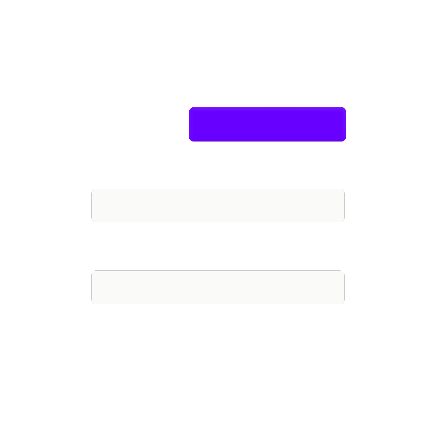
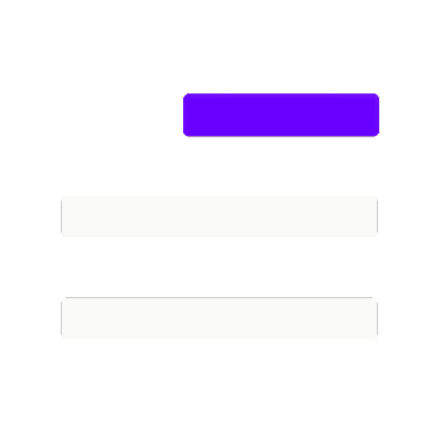
fixed ios autoplay bug, misc changes

Changed region(s): [[0.4165, 0.2156, 0.8924, 0.3389], [0.7735, 0.6777, 0.8032, 0.7085], [0.2082, 0.6777, 0.238, 0.7085]]

diff --git a/css/custom.css b/css/custom.css
@@ -129,17 +129,21 @@ transition: transform 0.3s ease;
  transform: scale(4);
 }
 
-
+.creation {
+width: 100%;
+height: auto;
+}
 
 .white_phyxl {
 width: 100%;
 height: auto;
-transition: transform 0.3s ease;
 }
 
-.white_phyxl:hover {
- transform: scale(4);
- }
+.loop {
+width: 100%;
+height: auto;
+transform: scale(1.0092);
+}
 
 .revenue {
 width: 100%;
@@ -161,13 +165,8 @@ right: 0;
 z-index: 1000;
 display: flex;
 justify-content: space-between;
-align-items: center;
-width: 100%;
-}
-
-.footer-left {
-display: flex;
-margin-left: 25px;
+margin-left: 5px;
+margin-bottom: 10px;
 }
 
 .social-icon {
@@ -213,8 +212,8 @@ width: 30px;
 height: 43px;
 z-index: 1;
 position: relative;
-top: 7px;
 padding-right: 5px;
+margin-bottom: -1.5px;
 }
 
 .bioniq:hover .bioniq{
@@ -227,7 +226,7 @@ height: 75px;
 cursor: pointer;
 position: relative; /* Ensure proper stacking context */
 z-index: 1001; /* Ensure the icon is above the menu */
-margin-right: 10px;
+margin-right: 20px;
 }
 
 .menu {
@@ -336,7 +335,10 @@ overflow: hidden;
 
 
 
-
+.footer-left {
+display: flex;
+margin-left: 20px;
+}
 
 
 
@@ -391,7 +393,7 @@ flex-direction: column;
 align-items: center;
 max-width: 700px;
 margin-left: 0px;
-margin-top: 40px;
+margin-top: 100px;
 }
 
 .body-left {
@@ -407,15 +409,15 @@ height: 200px;
 
 .body-right {
 margin-left: 0px;
-width: 50vmin;
-height: 50vmin;
+width: 64vmin;
+height: 64vmin;
 margin-left: 0px;
 margin-right: 0px;
 margin-bottom: 8px;
 }
 
 .footer-right {
-
+margin-right: 8px;
 }
 
 .powered-by {
@@ -428,11 +430,18 @@ line-heigth: 10px;
 width: 30px;
 height: 30px;
 	margin-right: 4px;
+	margin-top: 50px;
 }
 
 .bioniq {
 width: 21px;
 height: 30px;
+padding-right: 0px;
+padding-top: 35px;
+margin-bottom: -1.5px;
+}
+
+.bioniq img {
 }
 
 .logo {
@@ -448,11 +457,6 @@ padding-top: 13px;
 padding-left: 20px;
 }
 
-.footer-left {
-display: flex;
-margin-left: 17px;
-}
-
 .container {
 margin: 20px;
 margin-left: 20px;
@@ -460,23 +464,24 @@ max-width: 100%;
 }
 
 .menu-icon {
-  width: 60px;
-  height: 60px;
+width: 60px;
+height: 60px;
+margin-right: 18px;
 }
-/* to fix after production test*/
+
 .menu {
 position: fixed;
 padding-top: 100px;
 top: 0;
 right: 0;
-width: 200px;
+width: 170px;
 }
 
 .menu-button {
 margin-left: 15px;
 width: 90%;
 height: auto;
-margin-top: 30px;
+margin-top: 16px;
 padding: 15px;
 font-size: 15px;
 }
@@ -495,11 +500,11 @@ color: #6800ff;
 
 
 .submenu-button {
-margin-left: 35px;
+margin-left: 18px;
 width: 90%;
 height: auto;
-margin-top: 12px;
-padding: 15px;
+margin-top: 0px;
+padding: 10px;
 font-size: 13.5px;
 }
 
@@ -514,7 +519,8 @@ transform: scale(1.1);
 color: #6800ff;
 }
 
-
+.footer-container {
+height: 100px;
 }
 
-
+}

diff --git a/creation.html b/creation.html
@@ -1,5 +1,4 @@
 <!DOCTYPE html>
-<!-- phyxls.com v1.0 -->
   <html lang="en">
     <head>
       <meta charset="UTF-8">
@@ -54,19 +53,16 @@
   </div>
           <div class="body-container">
             <div class="body-left web-content box">
-            <p>A white canvas is digitized into <a href="/phyxls_1.html" target="_blank" style="text-decoration-color: #060704; color: #ffa500;">Phyxls #1</a>. It is then divided into 64 phyxls, each with 170 possible hexcodes, generated by our<a href="https://github.com/forria64/orca" target="_blank" style="text-decoration-color: #060704; color: #ffa500;"> script</a>.<br><br>
+            <p>A white canvas is digitized into <a href="/phyxls_1.html" target="_blank" style="text-decoration-color: #060704; color: #ffa500;">Phyxls #1</a>. The resulting image is divided into 64 phyxls. Our<a href="https://github.com/forria64/orca" target="_blank" style="text-decoration-color: #060704; color: #ffa500;"> script</a> colorizes each phyxl into one of 170 possible hexcodes.<br><br>
 The phyxls are then recombined to produce the final artworks, all displayed against a monochrome background.</p>
             </div>
             <div class="body-left mobile-content box">
-            <p>A white canvas is digitized into <a href="/phyxls_1.html" target="_blank" style="text-decoration-color: #060704; color: #ffa500;">Phyxls #1</a>. It is then divided into 64 phyxls, each with 170 possible hexcodes, generated by our<a href="https://github.com/forria64/orca" target="_blank" style="text-decoration-color: #060704; color: #ffa500;"> script</a>.<br><br>
+            <p>A white canvas is digitized into <a href="/phyxls_1.html" target="_blank" style="text-decoration-color: #060704; color: #ffa500;">Phyxls #1</a>. The resulting image is divided into 64 phyxls. Our<a href="https://github.com/forria64/orca" target="_blank" style="text-decoration-color: #060704; color: #ffa500;"> script</a> colorizes each phyxl into one of 170 possible hexcodes.<br><br>
 The phyxls are then recombined to produce the final artworks, all displayed against a monochrome background.</p>
             </div>
             <div class="body-right">
               <a href="https://github.com/forria64/orca" target="_blank">
-		<video autoplay loop muted class="video-container">
-  		<source src="/images/creation.mp4" type="video/mp4">
- 		WILD SEA PHYXL DISAPPEARED INTO THE DEPTHS
-		</video>
+<img src="/images/creation.gif" alt="creation" class="creation">
               </a>
             </div>
           </div>

diff --git a/phyxls_1.html b/phyxls_1.html
@@ -1,5 +1,4 @@
 <!DOCTYPE html>
-<!-- phyxls.com v1.0 -->
   <html lang="en">
     <head>
       <meta charset="UTF-8">
@@ -54,7 +53,7 @@
   </div>
           <div class="body-container">
             <div class="body-left web-content box">
-                                  <p><a href="/phyxls_1.html" target="_blank" style="text-decoration-color: #060704; color: #ffa500;">Phyxls #1</a> represents the physical white canvas. Upon minting, all Phyxls display its image and metadata.<br><br>
+                                  <p><a href="/phyxls_1.html" target="_blank" style="text-decoration-color: #060704; color: #ffa500;">Phyxls #1</a> represents the physical white canvas. After minting, all Phyxls start out as blank canvases.<br><br>
 Collectors can reveal or keep their Phyxls' colors hidden. Phyxls #1 is awarded to the first holder of more than 50% of the unrevealed Phyxls.</p>
             </div>
             <div class="body-left mobile-content box">

diff --git a/index.html b/index.html
@@ -1,5 +1,4 @@
 <!DOCTYPE html>
-<!-- phyxls.com v1.0 -->
   <html lang="en">
     <head>
       <meta charset="UTF-8">
@@ -24,7 +23,7 @@
         <div class="container">
           <div class="header-container">
           <div class="header-left">
-              <a href="/" target="_blank">
+              <a href="/">
                   <img src="/images/logo.png" alt="Logo" class="logo">
               </a>
           </div>
@@ -68,10 +67,7 @@
             </div>
             <div class="body-right">
               <a href="https://bioniq.io/collection/phyxls/inscriptions" target="_blank">
-		<video autoplay loop muted class="video-container-home">
-  		<source src="/images/loop.mp4" type="video/mp4">
- 		WILD SEA PHYXL DISAPPEARED INTO THE DEPTHS
-		</video>
+		<img src="/images/loop.gif" alt="loop" class="loop">
               </a>
             </div>
           </div>

diff --git a/stefanb.html b/stefanb.html
@@ -1,5 +1,4 @@
 <!DOCTYPE html>
-<!-- phyxls.com v1.0 -->
   <html lang="en">
     <head>
       <meta charset="UTF-8">
@@ -24,7 +23,7 @@
         <div class="container">
           <div class="header-container">
           <div class="header-left">
-              <a href="/" target="_blank">
+              <a href="/">
                   <img src="/images/logo.png" alt="Logo" class="logo">
               </a>
           </div>

diff --git a/js/drop_down.js b/js/drop_down.js
@@ -50,4 +50,3 @@ document.addEventListener('DOMContentLoaded', function() {
 function navigateTo(url) {
   window.location.href = url;
 }
-

diff --git a/forria.html b/forria.html
@@ -1,5 +1,4 @@
 <!DOCTYPE html>
-<!-- phyxls.com v1.0 -->
   <html lang="en">
     <head>
       <meta charset="UTF-8">

diff --git a/phovel.html b/phovel.html
@@ -1,5 +1,4 @@
 <!DOCTYPE html>
-<!-- phyxls.com v1.0 -->
   <html lang="en">
     <head>
       <meta charset="UTF-8">

diff --git a/revenue.html b/revenue.html
@@ -1,5 +1,4 @@
 <!DOCTYPE html>
-<!-- phyxls.com v1.0 -->
   <html lang="en">
     <head>
       <meta charset="UTF-8">
